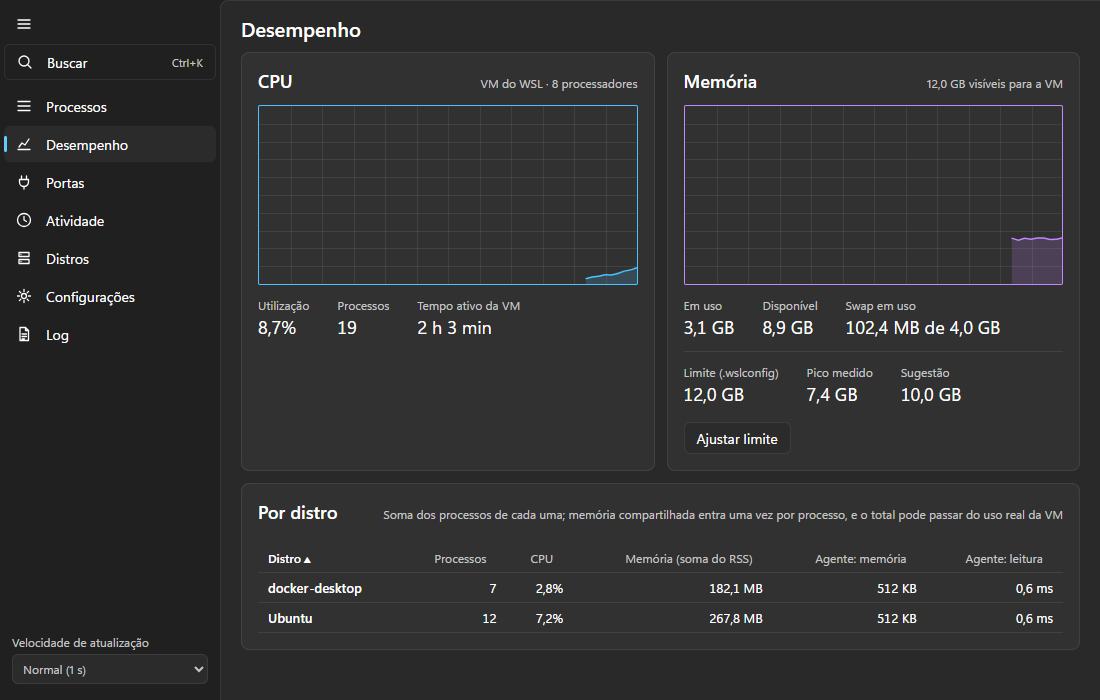
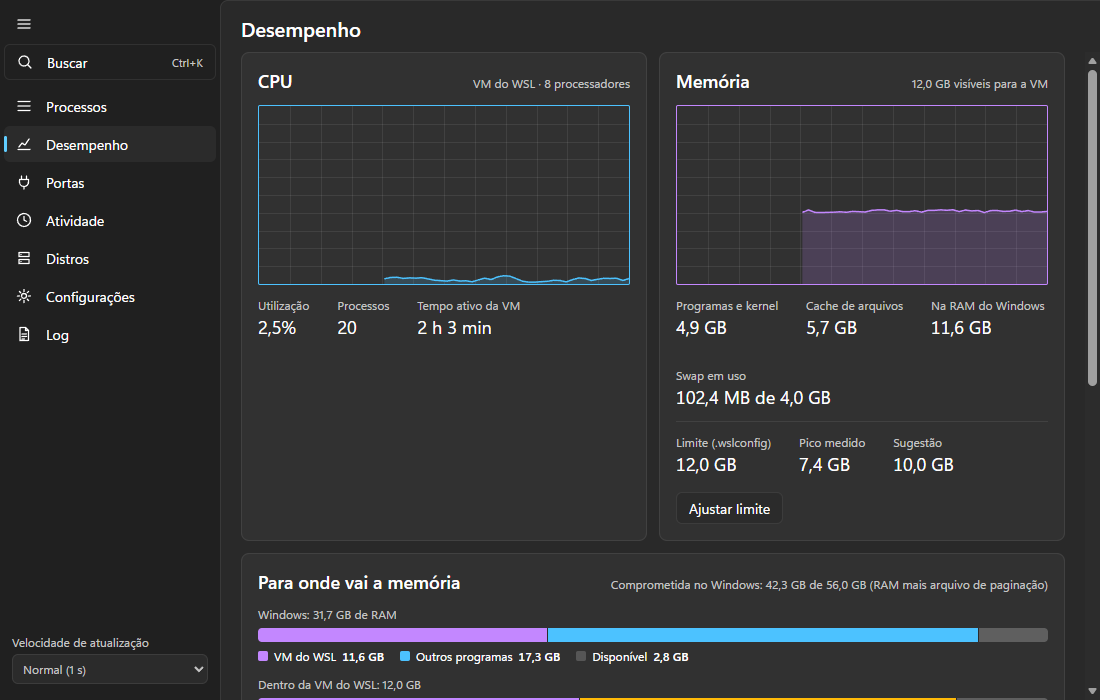
chore: versão 0.7.0 (#11)
* fix: memória do WSL na RAM do Windows e o cache no aviso

Com o Gerenciador de Tarefas mostrando 8,6 GB para o vmmemWSL, o cartão
Memória dizia "Em uso 1,1 GB": o Linux não conta cache como uso, e a VM
tinha 10,1 GB de cache que o Windows cobra dela.

- O cartão separa programas e kernel, cache de arquivos e quanto a VM
  ocupa na RAM do Windows.
- A memória do vmmemWSL passa a ser o working set, não o commit: medido,
  11,57 GB de commit contra 8,48 GB na RAM. A barra divide a RAM, então
  o número certo é o físico, o mesmo do Gerenciador de Tarefas.
- Quando o cache passa da soma dos containers, o aviso de memória diz
  isso e oferece ajustar o limite, em vez de apontar o maior container:
  na mesma máquina ele apontava um build de 219 MB.
- O modo demonstração e os testes usam nomes genéricos de projeto, em
  vez de nomes tirados de uma máquina real.

* docs: README, capturas e CHANGELOG da versão 0.7.0

O topo do README passa a ter o download, o que o app resolve e o convite
para testar e contribuir. As capturas são refeitas no modo demonstração
com a memória por projeto, o container com problema e o processo preso,
e a de Configurações sai.

* chore: versão 0.7.0

diff --git a/src/lib/demonstracao.ts b/src/lib/demonstracao.ts
@@ -17,16 +17,16 @@ const PORTAS: [number, string, string | null][] = [
 
 // Nome, projeto do Compose e memória em MB; quatro projetos, como na máquina medida.
 const CONTEINERES: [string, string | null, number][] = [
-  ['sigc-mssql', 'prefeitura-sigc-semge', 1763],
-  ['sigc-app', 'prefeitura-sigc-semge', 403],
-  ['sigc-redis', 'prefeitura-sigc-semge', 12],
-  ['sigc-nginx', 'prefeitura-sigc-semge', 9],
-  ['sigc-leitor-pdf', 'prefeitura-sigc-semge', 478],
-  ['vendai-backend-1', 'vendai', 648],
-  ['vendai-celery-worker-1', 'vendai', 492],
-  ['vendai-db-1', 'vendai', 71],
-  ['app-divida-zero-api-dev-1', 'app-divida-zero', 273],
-  ['app-divida-zero-db-1', 'app-divida-zero', 51],
+  ['loja-db', 'loja-online', 1763],
+  ['loja-api', 'loja-online', 403],
+  ['loja-redis', 'loja-online', 12],
+  ['loja-nginx', 'loja-online', 9],
+  ['loja-relatorios', 'loja-online', 478],
+  ['bot-api-1', 'chat-bot', 648],
+  ['bot-worker-1', 'chat-bot', 492],
+  ['bot-db-1', 'chat-bot', 71],
+  ['blog-api-1', 'blog', 273],
+  ['blog-db-1', 'blog', 51],
   ['gitlab-runner', null, 28],
 ];
 
@@ -162,10 +162,10 @@ export function criarDemonstracao(): Api {
     projeto,
     estado: 'running',
     memoria_bytes: mb * 1024 ** 2,
-    limite_bytes: nome === 'sigc-leitor-pdf' ? 512 * 1024 ** 2 : 0,
-    reinicios: nome === 'vendai-backend-1' ? 20 : 0,
-    em_ciclo: nome === 'vendai-backend-1',
-    saude: nome === 'sigc-app' ? 'unhealthy' : nome.includes('db') || nome.includes('mssql') ? 'healthy' : null,
+    limite_bytes: nome === 'loja-relatorios' ? 512 * 1024 ** 2 : 0,
+    reinicios: nome === 'bot-api-1' ? 20 : 0,
+    em_ciclo: nome === 'bot-api-1',
+    saude: nome === 'loja-api' ? 'unhealthy' : nome.includes('db') || nome.includes('mssql') ? 'healthy' : null,
   }));
 
   function publicarRecursos() {

diff --git a/src/lib/AvisoRecursos.svelte b/src/lib/AvisoRecursos.svelte
@@ -8,6 +8,10 @@
 
   const memoria = $derived(estado.memoriaWindows);
   const maior = $derived(agrupar(estado.docker.conteineres).find((p) => p.memoria > 0));
+  // Quando o cache passa da soma dos containers, apontar o maior container engana: a regra
+  // é a mesma da notificação, em recursos.rs.
+  const cache = $derived(estado.vm ? Math.max(0, estado.vm.mem_disponivel - estado.vm.mem_livre) : null);
+  const docker = $derived(estado.docker.conteineres.reduce((s, c) => s + c.memoria_bytes, 0));
 </script>
 
 {#if estado.saude}
@@ -27,9 +31,23 @@
       <strong>A memória do Windows está acabando:</strong>
       {bytes(memoria.disponivel_bytes)} livres de {bytes(memoria.total_bytes)}.
       {#if memoria.wsl_bytes !== null}
-        O WSL ocupa {bytes(memoria.wsl_bytes)}{#if maior}; quem mais usa dentro dele é {maior.nome}, com {bytes(maior.memoria)}{/if}.
+        {#if cache !== null && cache >= docker}
+          O WSL ocupa {bytes(memoria.wsl_bytes)}, e a maior parte é cache de arquivos ({bytes(cache)}), que o Linux devolve
+          quando precisa mas o Windows conta como ocupado. Baixar o limite de memória do WSL segura esse tamanho.
+        {:else}
+          O WSL ocupa {bytes(memoria.wsl_bytes)}{#if maior}; quem mais usa dentro dele é {maior.nome}, com {bytes(maior.memoria)}{/if}.
+        {/if}
       {/if}
     </span>
+    {#if memoria.wsl_bytes !== null && cache !== null && cache >= docker}
+      <button
+        class="botao"
+        onclick={() => {
+          estado.pagina = 'desempenho';
+          estado.ajustarLimite = true;
+        }}>Ajustar limite</button
+      >
+    {/if}
     {#if estado.pagina !== 'desempenho'}
       <button class="botao" onclick={() => (estado.pagina = 'desempenho')}>Ver o que ocupa</button>
     {/if}

diff --git a/src/lib/Desempenho.svelte b/src/lib/Desempenho.svelte
@@ -101,12 +101,15 @@
         <Grafico
           valores={mem}
           cor="--mem"
-          rotulo="Memória em uso nos últimos 60 segundos: {bytes(memUsada)} de {bytes(vm.mem_total)}"
+          rotulo="Memória usada por programas e kernel nos últimos 60 segundos: {bytes(memUsada)} de {bytes(vm.mem_total)}"
         />
       </div>
       <dl>
-        <div><dt>Em uso</dt><dd>{bytes(memUsada)}</dd></div>
-        <div><dt>Disponível</dt><dd>{bytes(vm.mem_disponivel)}</dd></div>
+        <div><dt>Programas e kernel</dt><dd>{bytes(memUsada)}</dd></div>
+        <div><dt>Cache de arquivos</dt><dd>{bytes(cache)}</dd></div>
+        {#if windows?.wsl_bytes != null}
+          <div><dt>Na RAM do Windows</dt><dd>{bytes(windows.wsl_bytes)}</dd></div>
+        {/if}
         <div><dt>Swap em uso</dt><dd>{bytes(swapUsada)} de {bytes(vm.swap_total)}</dd></div>
       </dl>
       {#if resumo}

diff --git a/src-tauri/src/recursos.rs b/src-tauri/src/recursos.rs
@@ -35,7 +35,8 @@ pub struct MemoriaWindows {
     /// Memória comprometida e o limite dela (RAM mais arquivo de paginação).
     pub commit_bytes: u64,
     pub commit_limite_bytes: u64,
-    /// Memória privada do `vmmemWSL`: o que a VM inteira ocupa no Windows, cache incluso.
+    /// Memória física (working set) do `vmmemWSL`: quanto da RAM do Windows a VM inteira
+    /// ocupa, cache incluso. É o número que o Gerenciador de Tarefas mostra para ela.
     /// `None` com o WSL desligado.
     pub wsl_bytes: Option<u64>,
     pub pressao: bool,
@@ -84,20 +85,19 @@ fn medir() -> MemoriaWindows {
         disponivel_bytes: m.ullAvailPhys,
         commit_bytes: m.ullTotalPageFile - m.ullAvailPageFile,
         commit_limite_bytes: m.ullTotalPageFile,
-        wsl_bytes: memoria_privada_do_wsl(),
+        wsl_bytes: memoria_fisica_de("vmmemWSL"),
         pressao: false,
     }
 }
 
 /// O processo `vmmemWSL` representa a VM no Windows. Ele não aceita ser aberto sem
 /// administrador, nem com o acesso de consulta limitada (medido: erro 5), então a memória
-/// vem da lista de processos do sistema, que traz o número sem abrir o processo. É a mesma
-/// fonte da memória privada que o Gerenciador de Tarefas e o `Get-Process` mostram.
-fn memoria_privada_do_wsl() -> Option<u64> {
-    memoria_privada_de("vmmemWSL")
-}
-
-fn memoria_privada_de(processo: &str) -> Option<u64> {
+/// vem da lista de processos do sistema, que traz o número sem abrir o processo.
+///
+/// O número é o working set, a RAM que o processo ocupa agora. A memória privada (commit)
+/// passa dele quando o Windows tira páginas da VM da RAM: medido, 11,57 GB de commit contra
+/// 8,48 GB na RAM, com o Gerenciador de Tarefas mostrando os 8,5.
+fn memoria_fisica_de(processo: &str) -> Option<u64> {
     use windows_sys::Wdk::System::SystemInformation::{NtQuerySystemInformation, SystemProcessInformation};
     use windows_sys::Win32::System::WindowsProgramming::SYSTEM_PROCESS_INFORMATION;
 
@@ -129,7 +129,7 @@ fn memoria_privada_de(processo: &str) -> Option<u64> {
         if !nome.Buffer.is_null() {
             let texto = unsafe { std::slice::from_raw_parts(nome.Buffer, nome.Length as usize / 2) };
             if String::from_utf16_lossy(texto).eq_ignore_ascii_case(processo) {
-                return Some(entrada.PrivatePageCount as u64);
+                return Some(entrada.WorkingSetSize as u64);
             }
         }
         if entrada.NextEntryOffset == 0 {
@@ -164,6 +164,22 @@ pub fn maior_consumidor(conteineres: &[Conteiner]) -> Option<(String, u64)> {
         }
     }
     soma.into_iter().filter(|(_, b)| *b > 0).max_by_key(|(_, b)| *b)
+}
+
+/// O que mais pesa dentro da VM. Quando o cache passa da memória somada dos containers,
+/// apontar o maior container manda olhar para o lugar errado: medido numa máquina, a VM
+/// tinha 10,1 GB de cache e o maior container, 219 MB.
+pub fn explicar_wsl(wsl: u64, cache: Option<u64>, conteineres: &[Conteiner]) -> String {
+    let docker: u64 = conteineres.iter().map(|c| c.memoria_bytes).sum();
+    match (cache, maior_consumidor(conteineres)) {
+        (Some(cache), _) if cache >= docker => format!(
+            "O WSL ocupa {} GB, e a maior parte é cache de arquivos ({} GB), que o Linux devolve quando precisa mas o Windows conta como ocupado. Baixar o limite de memória do WSL, em Desempenho, segura esse tamanho.",
+            gb(wsl),
+            gb(cache)
+        ),
+        (_, Some((quem, bytes))) => format!("O WSL ocupa {} GB; quem mais usa dentro dele é {quem}, com {} GB.", gb(wsl), gb(bytes)),
+        _ => format!("O WSL ocupa {} GB.", gb(wsl)),
+    }
 }
 
 pub fn gb(bytes: u64) -> String {
@@ -233,11 +249,8 @@ fn avisar_pressao(app: &AppHandle, agentes: &Agentes, recursos: &Recursos, m: &M
     }
     let mut texto = format!("{} GB livres de {} GB.", gb(m.disponivel_bytes), gb(m.total_bytes));
     if let Some(wsl) = m.wsl_bytes {
-        texto.push_str(&format!(" O WSL ocupa {} GB", gb(wsl)));
-        match maior_consumidor(&recursos.docker.lock().unwrap().conteineres) {
-            Some((quem, bytes)) => texto.push_str(&format!("; quem mais usa é {quem}, com {} GB.", gb(bytes))),
-            None => texto.push('.'),
-        }
+        texto.push(' ');
+        texto.push_str(&explicar_wsl(wsl, agentes.cache_vm(), &recursos.docker.lock().unwrap().conteineres));
     }
     warn!("memória do Windows acabando: {texto}");
     agentes.registrar(app, "memoria", None, format!("A memória do Windows está acabando: {texto}"));
@@ -316,15 +329,35 @@ mod testes {
             em_ciclo: false,
             saude: None,
         };
-        let lista = [c("a", Some("sigc"), 1700), c("b", Some("sigc"), 700), c("c", Some("vendai"), 2000), c("runner", None, 30)];
-        assert_eq!(maior_consumidor(&lista), Some(("sigc".to_string(), 2400 << 20)));
+        let lista = [c("a", Some("loja"), 1700), c("b", Some("loja"), 700), c("c", Some("chat-bot"), 2000), c("runner", None, 30)];
+        assert_eq!(maior_consumidor(&lista), Some(("loja".to_string(), 2400 << 20)));
         assert_eq!(maior_consumidor(&[]), None);
     }
 
     #[test]
     fn acha_processo_na_lista_do_sistema() {
-        assert!(memoria_privada_de("System").is_some());
-        assert_eq!(memoria_privada_de("processo-que-nao-existe.exe"), None);
+        assert!(memoria_fisica_de("System").is_some());
+        assert_eq!(memoria_fisica_de("processo-que-nao-existe.exe"), None);
+    }
+
+    #[test]
+    fn aviso_aponta_o_cache_quando_ele_pesa_mais_que_os_containers() {
+        let c = |nome: &str, mb: u64| Conteiner {
+            id: String::new(),
+            nome: nome.to_string(),
+            projeto: None,
+            estado: "running".to_string(),
+            memoria_bytes: mb << 20,
+            limite_bytes: 0,
+            reinicios: 0,
+            em_ciclo: false,
+            saude: None,
+        };
+        let runner = [c("runner-build", 219)];
+        assert!(explicar_wsl(8 * GIB, Some(10 * GIB), &runner).contains("cache de arquivos (10,0 GB)"));
+        let loja = [c("loja-db", 4 * 1024)];
+        assert!(explicar_wsl(8 * GIB, Some(2 * GIB), &loja).contains("quem mais usa dentro dele é loja-db"));
+        assert_eq!(explicar_wsl(8 * GIB, None, &[]), "O WSL ocupa 8,0 GB.");
     }
 
     #[test]

diff --git a/src-tauri/src/agentes.rs b/src-tauri/src/agentes.rs
@@ -98,6 +98,8 @@ pub struct Agentes {
     /// Processos presos, por distro.
     travados: Mutex<HashMap<String, travados::Vigia>>,
     intervalo_ms: AtomicU64,
+    /// Cache de arquivos da VM na última amostra; 0 enquanto nenhuma chegou.
+    cache_vm: AtomicU64,
     espera_ociosidade_ms: AtomicI64,
     pausado: AtomicBool,
     proximo_id: AtomicU64,
@@ -115,6 +117,7 @@ impl Agentes {
             atividade: Mutex::new(Atividade::abrir(dados.join("atividade.jsonl"))),
             travados: Mutex::new(HashMap::new()),
             intervalo_ms: AtomicU64::new(1000),
+            cache_vm: AtomicU64::new(0),
             espera_ociosidade_ms: AtomicI64::new(WslConfig::ler().espera_ociosidade_ms()),
             pausado: AtomicBool::new(false),
             proximo_id: AtomicU64::new(1),
@@ -144,6 +147,10 @@ impl Agentes {
         if !self.pausado.load(Ordering::Relaxed) {
             self.repassar_intervalo(ms);
         }
+    }
+
+    pub fn cache_vm(&self) -> Option<u64> {
+        Some(self.cache_vm.load(Ordering::Relaxed)).filter(|&b| b > 0)
     }
 
     pub fn pausado(&self) -> bool {
@@ -267,6 +274,8 @@ impl Agentes {
             match serde_json::from_str::<Mensagem>(&linha) {
                 Ok(Mensagem::Amostra(amostra)) => {
                     self.historico.lock().unwrap().registrar(&amostra);
+                    // A VM é uma só: qualquer distro serve para medir o cache dela.
+                    self.cache_vm.store(amostra.mem_disponivel.saturating_sub(amostra.mem_livre), Ordering::Relaxed);
                     self.vigiar_travados(&app, &distro, &amostra);
                     if !amostra.kernel.is_empty() {
                         let mut atividade = self.atividade.lock().unwrap();

diff --git a/src-tauri/src/docker.rs b/src-tauri/src/docker.rs
@@ -276,10 +276,10 @@ mod testes {
 
     #[test]
     fn le_a_lista_com_e_sem_projeto() {
-        let texto = format!("{ID_A}\tsigc-app\trunning\tprefeitura-sigc-semge\r\n{ID_B}\tgitlab-runner\trunning\t\nlixo\tsem\tid\n");
+        let texto = format!("{ID_A}\tloja-api\trunning\tloja-online\r\n{ID_B}\tgitlab-runner\trunning\t\nlixo\tsem\tid\n");
         let lista = ler_ps(&texto);
         assert_eq!(lista.len(), 2);
-        assert_eq!(lista[0].projeto.as_deref(), Some("prefeitura-sigc-semge"));
+        assert_eq!(lista[0].projeto.as_deref(), Some("loja-online"));
         assert_eq!(lista[1].projeto, None);
         assert_eq!(lista[1].estado, "running");
     }
@@ -296,7 +296,7 @@ mod testes {
 
     #[test]
     fn perto_do_limite_so_com_limite_definido() {
-        let mut c = ler_ps(&format!("{ID_A}\tleitor-pdf\trunning\tsigc\n")).remove(0);
+        let mut c = ler_ps(&format!("{ID_A}\trelatorios\trunning\tloja\n")).remove(0);
         c.memoria_bytes = 470 << 20;
         assert!(!c.perto_do_limite());
         c.limite_bytes = 512 << 20;

diff --git a/README.md b/README.md
@@ -1,28 +1,59 @@
 # Toca do Pinguim
 
-Gerenciador de tarefas para o WSL, no formato do Gerenciador de Tarefas do Windows. Ele
-observa e gerencia sem mudar o ciclo de vida das distros: nenhuma fica ligada por causa
-do app.
+Gerenciador de tarefas para o WSL, no formato do Gerenciador de Tarefas do Windows. Mostra o
+que roda em cada distro, para onde vai a memória da máquina e o que está preso, sem segurar
+nenhuma distro ligada por conta própria.
+
+**[Baixar a versão mais recente](https://github.com/SaLuanVitor/toca-do-pinguim/releases/latest)**:
+instalador ou versão portátil, para Windows 10 e 11 com WSL 2. Ou pelo PowerShell:
+
+```powershell
+irm https://raw.githubusercontent.com/SaLuanVitor/toca-do-pinguim/main/scripts/instalar.ps1 | iex
+```
+
+O instalador ainda não tem assinatura digital, e o SmartScreen avisa na primeira execução;
+os detalhes estão em [Instalar](#instalar).
 
 > **In English:** a Task Manager-style app for WSL on Windows 10 and 11. It shows processes,
-> CPU, memory and listening ports of every distro, lets you start, stop and restart distros,
-> edits every documented `.wslconfig` and per-distro `/etc/wsl.conf` setting, and logs WSL
-> failures. It never keeps a distro running on its own. Install with
-> `irm https://raw.githubusercontent.com/SaLuanVitor/toca-do-pinguim/main/scripts/instalar.ps1 | iex`.
-> The interface is in Brazilian Portuguese.
+> CPU, memory and listening ports of every distro, where the Windows memory goes (WSL cache,
+> Docker Compose projects), and which containers and processes look stuck. It starts, stops and
+> restarts distros, edits every documented `.wslconfig` and per-distro `/etc/wsl.conf` setting,
+> and logs WSL failures. It never keeps a distro running on its own. The interface is in
+> Brazilian Portuguese.
 
 ![Aba Processos](docs/capturas/processos.png)
 
-| Desempenho | Configurações |
+| Para onde vai a memória e Docker por projeto | Desempenho |
 |---|---|
-| ![Aba Desempenho](docs/capturas/desempenho.png) | ![Aba Configurações](docs/capturas/configuracoes.png) |
+| ![Memória e Docker](docs/capturas/memoria.png) | ![Aba Desempenho](docs/capturas/desempenho.png) |
 
 As capturas são do modo demonstração, com dados simulados.
 
+## O que ele resolve
+
+- **A memória que some no WSL.** A VM do WSL segura memória no Windows até o teto do
+  `.wslconfig`, e boa parte é cache de arquivos. O app mostra quanto é programa, quanto é
+  cache e qual projeto do Docker Compose ocupa mais, e para ou liga um projeto inteiro com um
+  clique. Abaixo de 10% de memória livre no Windows, avisa por notificação.
+- **O que está preso.** Container que falha no próprio healthcheck ou reinicia sem parar,
+  processo esperando disco ou rede, zumbi que ninguém recolhe. Cada um aparece com o motivo,
+  e o container tem botão para reiniciar.
+- **O WSL que trava.** Quando o `wsl.exe` para de responder (`Wsl/Service/0x8007274c`), o app
+  avisa e oferece desligar o WSL, em vez de você descobrir pelo terminal parado.
+- **Sem segurar distro ligada.** O app lê as distros por dentro, mas o agente dele sai quando a
+  sessão dele é a única. Medido: com o app aberto, o agente saiu 2 s depois que uma Debian ficou
+  sem sessão, e o WSL a desligou 16 s depois disso.
+
+Usa WSL no dia a dia? Teste e conte numa [issue](https://github.com/SaLuanVitor/toca-do-pinguim/issues)
+o que faltou ou o que deu errado. PRs são bem-vindos; o caminho está no
+[CONTRIBUTING](CONTRIBUTING.md).
+
+## Abas
+
 | Aba | O que tem |
 |---|---|
-| Processos | processos de cada distro com CPU e memória; encerramento por SIGTERM ou SIGKILL |
-| Desempenho | gráficos de CPU e memória da VM; para onde vai a memória do Windows; Docker por projeto, com parar e ligar; limite de memória com pico medido e sugestão |
+| Processos | processos de cada distro com CPU e memória; os presos e os zumbis marcados com o motivo; encerramento por SIGTERM ou SIGKILL |
+| Desempenho | gráficos de CPU e memória da VM; para onde vai a memória do Windows; Docker por projeto, com parar, ligar e reiniciar o que está com problema; limite de memória com pico medido e sugestão |
 | Portas | sockets em escuta na VM, o processo e a distro de cada um |
 | Atividade | distros que ligaram e desligaram, quedas do WSL, processos encerrados, falta de memória, containers em ciclo de reinício, configuração |
 | Distros | iniciar, terminar, reiniciar e desligar o WSL |

diff --git a/CHANGELOG.md b/CHANGELOG.md
@@ -5,6 +5,8 @@ e a numeração segue o [versionamento semântico](https://semver.org/lang/pt-BR
 
 ## [Não lançado]
 
+## [0.7.0] - 2026-10-29
+
 ### Adicionado
 
 - **Para onde vai a memória**, em Desempenho: quanto a VM do WSL ocupa no Windows ao lado dos
@@ -27,6 +29,13 @@ e a numeração segue o [versionamento semântico](https://semver.org/lang/pt-BR
 - O instalador mostra, antes de instalar, o que o app acessa na rede e o que muda no sistema.
 - README com as seções de privacidade e de política de assinatura, preparando o pedido de
   assinatura gratuita à SignPath Foundation.
+
+### Alterado
+
+- O cartão Memória, em Desempenho, chamava de "Em uso" só o que os programas usam dentro da
+  VM, e podia mostrar 1 GB com o Gerenciador de Tarefas mostrando 8,6 GB para o `vmmemWSL`.
+  A diferença é cache de arquivos, que o Linux não conta como uso e o Windows cobra da VM. O
+  cartão agora separa programas e kernel, cache e quanto a VM ocupa na RAM do Windows.
 
 ### Corrigido
 
@@ -151,7 +160,8 @@ Primeira versão pública.
   WSL desliga a distro no tempo normal.
 - Instalador para Windows 10 e 11 e versão portátil em `.zip`.
 
-[Não lançado]: https://github.com/SaLuanVitor/toca-do-pinguim/compare/v0.6.0...HEAD
+[Não lançado]: https://github.com/SaLuanVitor/toca-do-pinguim/compare/v0.7.0...HEAD
+[0.7.0]: https://github.com/SaLuanVitor/toca-do-pinguim/compare/v0.6.0...v0.7.0
 [0.6.0]: https://github.com/SaLuanVitor/toca-do-pinguim/compare/v0.5.1...v0.6.0
 [0.5.1]: https://github.com/SaLuanVitor/toca-do-pinguim/compare/v0.5.0...v0.5.1
 [0.5.0]: https://github.com/SaLuanVitor/toca-do-pinguim/compare/v0.4.0...v0.5.0
